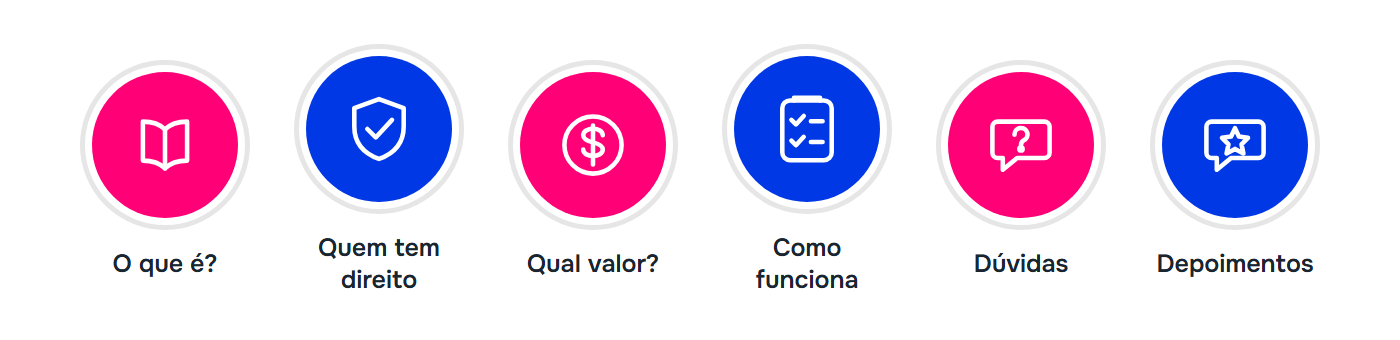
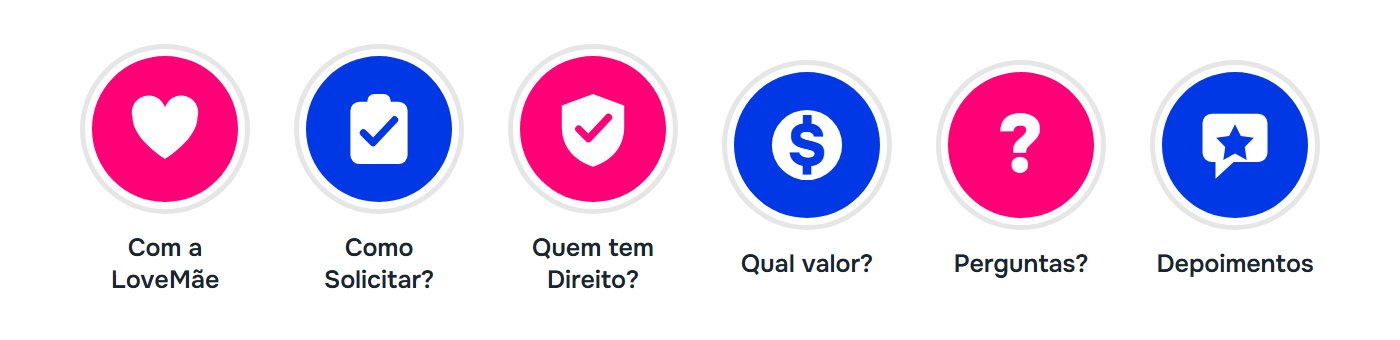
destaques: ícones sólidos e grandes, títulos revisados pela empresa

diff --git a/marketing/instagram/vitrine/textos.md b/marketing/instagram/vitrine/textos.md
@@ -26,21 +26,22 @@ LoveMãe | Auxílio Maternidade
 
 **Botões de contato:** WhatsApp (11) 96963-9342 · e-mail contato@lovemaeauxiliomaternidade.com.br
 
-**Destaques** (revistos em 18/09/2026 — 6 capas alternando as duas cores do logo;
-capas em `destaques/`, prévia em `previa-destaques.png`):
+**Destaques** (revistos em 18/09/2026 — 6 capas alternando as duas cores do logo,
+ícone sólido ocupando quase todo o círculo; capas em `destaques/`, prévia em
+`previa-destaques.png`):
 
-| # | Nome no Instagram | Cor | Arquivo |
-|---|---|---|---|
-| 1 | O que é? | `#FF0076` rosa do logo | `1-o-que-e.png` |
-| 2 | Quem tem direito | `#0038E5` azul do logo | `2-quem-tem-direito.png` |
-| 3 | Qual valor? | `#FF0076` | `3-qual-valor.png` |
-| 4 | Como funciona | `#0038E5` | `4-como-funciona.png` |
-| 5 | Dúvidas | `#FF0076` | `5-duvidas.png` |
-| 6 | Depoimentos | `#0038E5` | `6-depoimentos.png` |
+| # | Nome no Instagram | Cor | Ícone | Arquivo |
+|---|---|---|---|---|
+| 1 | Com a LoveMãe | `#FF0076` | coração | `1-com-a-lovemae.png` |
+| 2 | Como Solicitar? | `#0038E5` | prancheta com check | `2-como-solicitar.png` |
+| 3 | Quem tem Direito? | `#FF0076` | escudo com check | `3-quem-tem-direito.png` |
+| 4 | Qual valor? | `#0038E5` | moeda com cifrão | `4-qual-valor.png` |
+| 5 | Perguntas? | `#FF0076` | interrogação | `5-perguntas.png` |
+| 6 | Depoimentos | `#0038E5` | balão com estrela | `6-depoimentos.png` |
 
-Testadas seis variações de tom em 18/09/2026 e descartadas: com seis cores a linha fica
-poluída. Só as duas do logo. Os pastéis da marca (`#FAA9C7`, `#80BBEF`) também estão
-fora — com ícone branco dão 1,8:1 e 2,0:1, abaixo do mínimo de 3:1 para símbolo.
+Descartado em 18/09/2026: seis tons diferentes (linha poluída) e ícone de traço fino
+(sumia na miniatura). Os pastéis da marca (`#FAA9C7`, `#80BBEF`) também estão fora —
+com ícone branco dão 1,8:1 e 2,0:1, abaixo do mínimo de 3:1 para símbolo.
 
 ⚠ **Depoimentos** só entra quando houver depoimento com autorização por escrito.
 Destaque vazio, ou com print de conversa sem permissão, é pior que destaque nenhum.
